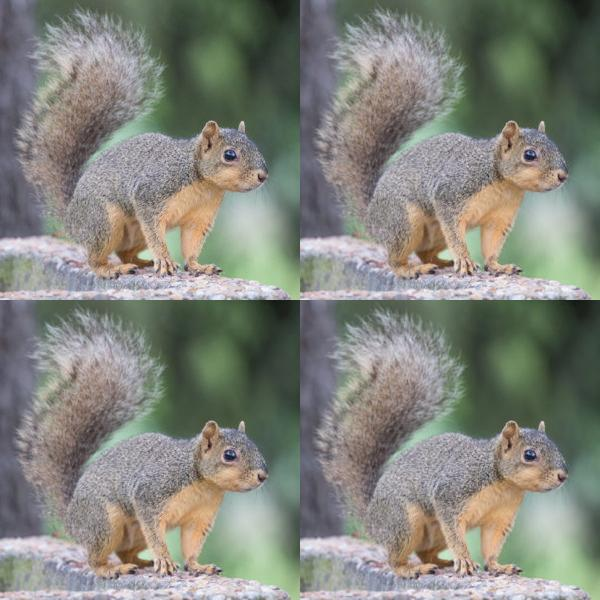
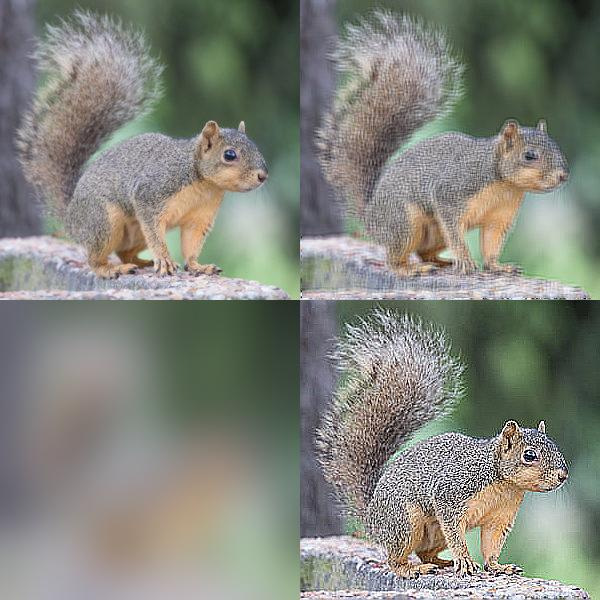
Finished

diff --git a/PythonWarsawProject/PythonWarsawProject.py b/PythonWarsawProject/PythonWarsawProject.py
@@ -12,6 +12,8 @@
 from PIL import Image 
 from PIL import ImageFilter # Library needed for filters
 import os
+import math
+import random
 
 # Adds two blank lines before output
 print("\n\n")
@@ -45,13 +47,16 @@ if scale != 0:
 ########################
 
 
-newImage1 = img
+newImage1 = img.filter(ImageFilter.EDGE_ENHANCE_MORE)
+newImage1 = newImage1.filter(ImageFilter.BLUR)
 
 
-newImage2 = img
+for i in range(3):
+    newImage2 = img.filter(ImageFilter.GaussianBlur(random.randint(0, 100)))
 
 
-newImage3 = img
+newImage3 = img.filter(ImageFilter.DETAIL)
+newImage3 = newImage3.filter(ImageFilter.EDGE_ENHANCE)
 
 
 ###################################
